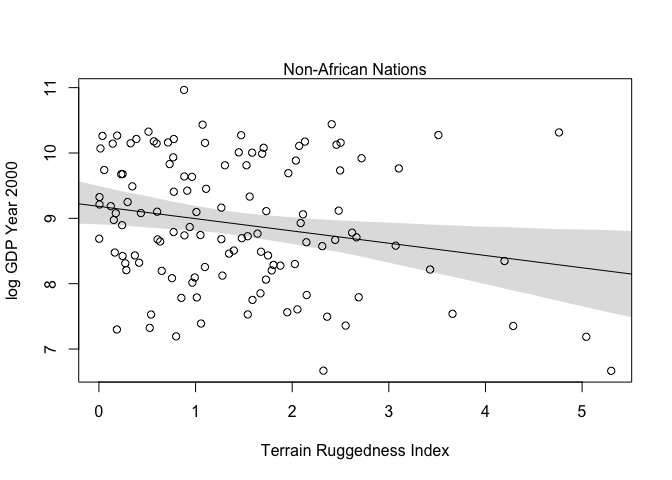
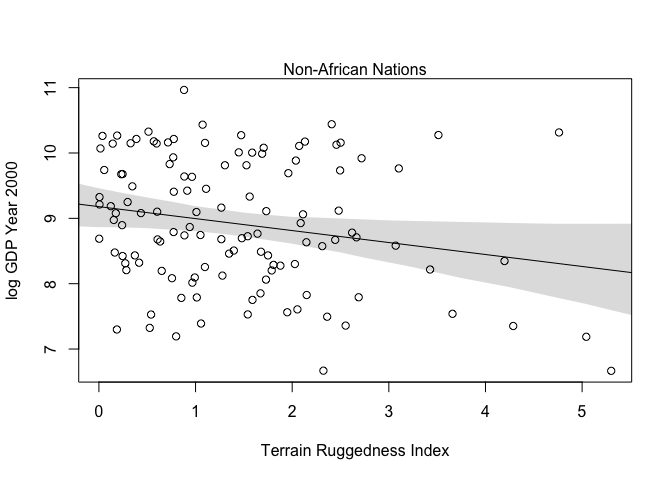
chapter 7

diff --git a/chapter_7/chapter_7.md b/chapter_7/chapter_7.md
@@ -181,9 +181,9 @@ R Code 7.5
 compare(m7.3, m7.4)
 ```
 
-    ##          WAIC       SE    dWAIC      dSE    pWAIC      weight
-    ## m7.4 476.4312 15.35923  0.00000       NA 4.435232 1.00000e+00
-    ## m7.3 539.9227 13.34768 63.49147 15.15474 2.870943 1.63306e-14
+    ##          WAIC       SE    dWAIC      dSE    pWAIC       weight
+    ## m7.4 476.4565 15.29151  0.00000       NA 4.468851 1.000000e+00
+    ## m7.3 539.2545 13.20757 62.79808 15.04083 2.557811 2.309781e-14
 
 From the above, we can see that all weight is assigned to model m7.4.
 The standard error in the difference of WAIC between the two models is
@@ -274,9 +274,9 @@ compare(m7.3, m7.4, m7.5)
 ```
 
     ##          WAIC       SE     dWAIC       dSE    pWAIC       weight
-    ## m7.5 469.6433 15.11418  0.000000        NA 5.286206 9.679679e-01
-    ## m7.4 476.4602 15.29862  6.816919  6.164413 4.433733 3.203213e-02
-    ## m7.3 539.5304 13.32193 69.887082 15.175004 2.672001 6.457640e-16
+    ## m7.5 470.1199 15.21022  0.000000        NA 5.569468 9.612143e-01
+    ## m7.4 476.5402 15.37615  6.420293  6.346492 4.514297 3.878567e-02
+    ## m7.3 539.4465 13.32714 69.326576 15.321024 2.646287 8.486830e-16
 
 Model 7.5 has a weight of 0.97. However, the weight of 0.03 that is
 given to model m7.4 shows that there is slight overfitting happening in
@@ -362,11 +362,11 @@ precis(m7.5)
 ```
 
     ##             mean         sd       5.5%       94.5%
-    ## a      9.1835953 0.13641582  8.9655765  9.40161416
-    ## bA    -1.8461141 0.21848085 -2.1952887 -1.49693955
-    ## bR    -0.1843541 0.07568752 -0.3053173 -0.06339078
-    ## bAR    0.3483231 0.12749937  0.1445545  0.55209174
-    ## sigma  0.9332506 0.05067074  0.8522689  1.01423219
+    ## a      9.1835863 0.13641532  8.9655683  9.40160433
+    ## bA    -1.8461078 0.21848006 -2.1952811 -1.49693446
+    ## bR    -0.1843508 0.07568724 -0.3053136 -0.06338795
+    ## bAR    0.3483177 0.12749891  0.1445499  0.55208563
+    ## sigma  0.9332469 0.05067024  0.8522660  1.01422768
 
 In the above table, we do not see values for gamma, since it wasn’t
 estimated. However, we would have to estimate it ourselves for both
@@ -408,13 +408,13 @@ follows:
 mean(gamma.Africa)
 ```
 
-    ## [1] 0.1645059
+    ## [1] 0.1637203
 
 ``` r
 mean(gamma.notAfrica)
 ```
 
-    ## [1] -0.1848995
+    ## [1] -0.1836805
 
 These means are very close to the MAP values of mean calculated above.
 
@@ -433,3 +433,83 @@ dens(gamma.notAfrica, add = TRUE)
 ```
 
 ![](chapter_7_files/figure-gfm/unnamed-chunk-20-1.png)<!-- -->
+
+Linear interactions are symmetrical, and our golum cannot tell the
+difference between one symmetrical interaction and the other. Consider
+the following:
+
+Yi \~ Normal (µi σ) \[likelihood\] µi = α + γiRi + βAAi \[linear model
+of µ\] γi = βR + βARAi \[linear model of slope\]
+
+Lets now expand γi into the expression for µi
+
+μi=α+(βR+βARAi)Ri+βAAi=α+βRRi+βARAiRi+βAAi
+
+Now factor together the terms with Ai in them:
+
+μi=α+βRRi+(βA+βARRi)Ai
+
+From the above mathematical notations,we can see that for our linear
+interaction model, the following two phrasings are equally valid.
+
+1)  How much does the influence of ruggedness on GDP depend upon whether
+    the nation is in Africa?
+
+2)  How much does the influence of being in Africa on GDP depend upon
+    ruggedness?
+
+Lets plot the second interpretation below.
+
+R Code 7.17
+
+``` r
+#get minimum and maximum rugged values
+q.rugged <- range(dd$rugged)
+
+#compute lines and confidence intervals
+mu.ruggedlo <- 
+  link(m7.5, data = data.frame(rugged = q.rugged[1], cont_africa = 0:1)) 
+
+mu.ruggedlo.mean <- apply(mu.ruggedlo$mu, 2, mean)
+mu.ruggedlo.PI <- apply(mu.ruggedlo$mu, 2, PI) 
+
+mu.ruggedhi <- 
+  link(m7.5, data = data.frame(rugged = q.rugged[2], cont_africa = 0:1)) 
+
+mu.ruggedhi.mean <- apply(mu.ruggedhi$mu, 2, mean)
+mu.ruggedhi.PI <- apply(mu.ruggedhi$mu, 2, PI) 
+
+#plot it all, splitting points at  median
+med.r <- median(dd$rugged)
+ox <- ifelse(dd$rugged > med.r, 0.05, -0.05)
+plot(
+  dd$cont_africa + ox,
+  log(dd$rgdppc_2000),
+  col = ifelse(dd$rugged > med.r, rangi2, "black"),
+  xlim = c(-0.25, 1.25),
+  xaxt = "n",
+  ylab = "log GDP year 2000",
+  xlab = "continent"
+  ) 
+axis(1, at = c(0, 1), labels = c("other", "Africa"))
+lines(0:1, mu.ruggedlo.mean, lty = 2, col = "black")
+shade(mu.ruggedlo.PI, 0:1)
+lines(0:1, mu.ruggedhi.mean, col = rangi2)
+shade(mu.ruggedhi.PI, 0:1, col = col.alpha(rangi2, 0.25))
+```
+
+![](chapter_7_files/figure-gfm/unnamed-chunk-21-1.png)<!-- -->
+
+In the above, blue points are countries with terrain ruggedness above
+the median. Black points are countries with terrain ruggedness below the
+median. We can see from the plot that countries in Africa on avearge
+have lower GDP(due to colonization). The black line and black shaded
+region tell us the expected reduction in log GDP when we take a nation
+with minimum terrain ruggedness and change its continent.
+
+The blue line and blue shaded region show the change in GDP for a nation
+which has maximum terrain ruggedness between. We can see from this line
+that changing the continent has a very negligible effect on the GDP
+value. However, given the large area of the shaded region, this estimate
+is not very accurate. Thus, for a nation with veyr high rugged terrain,
+there is negligible effect on GDP by being in Africa.
